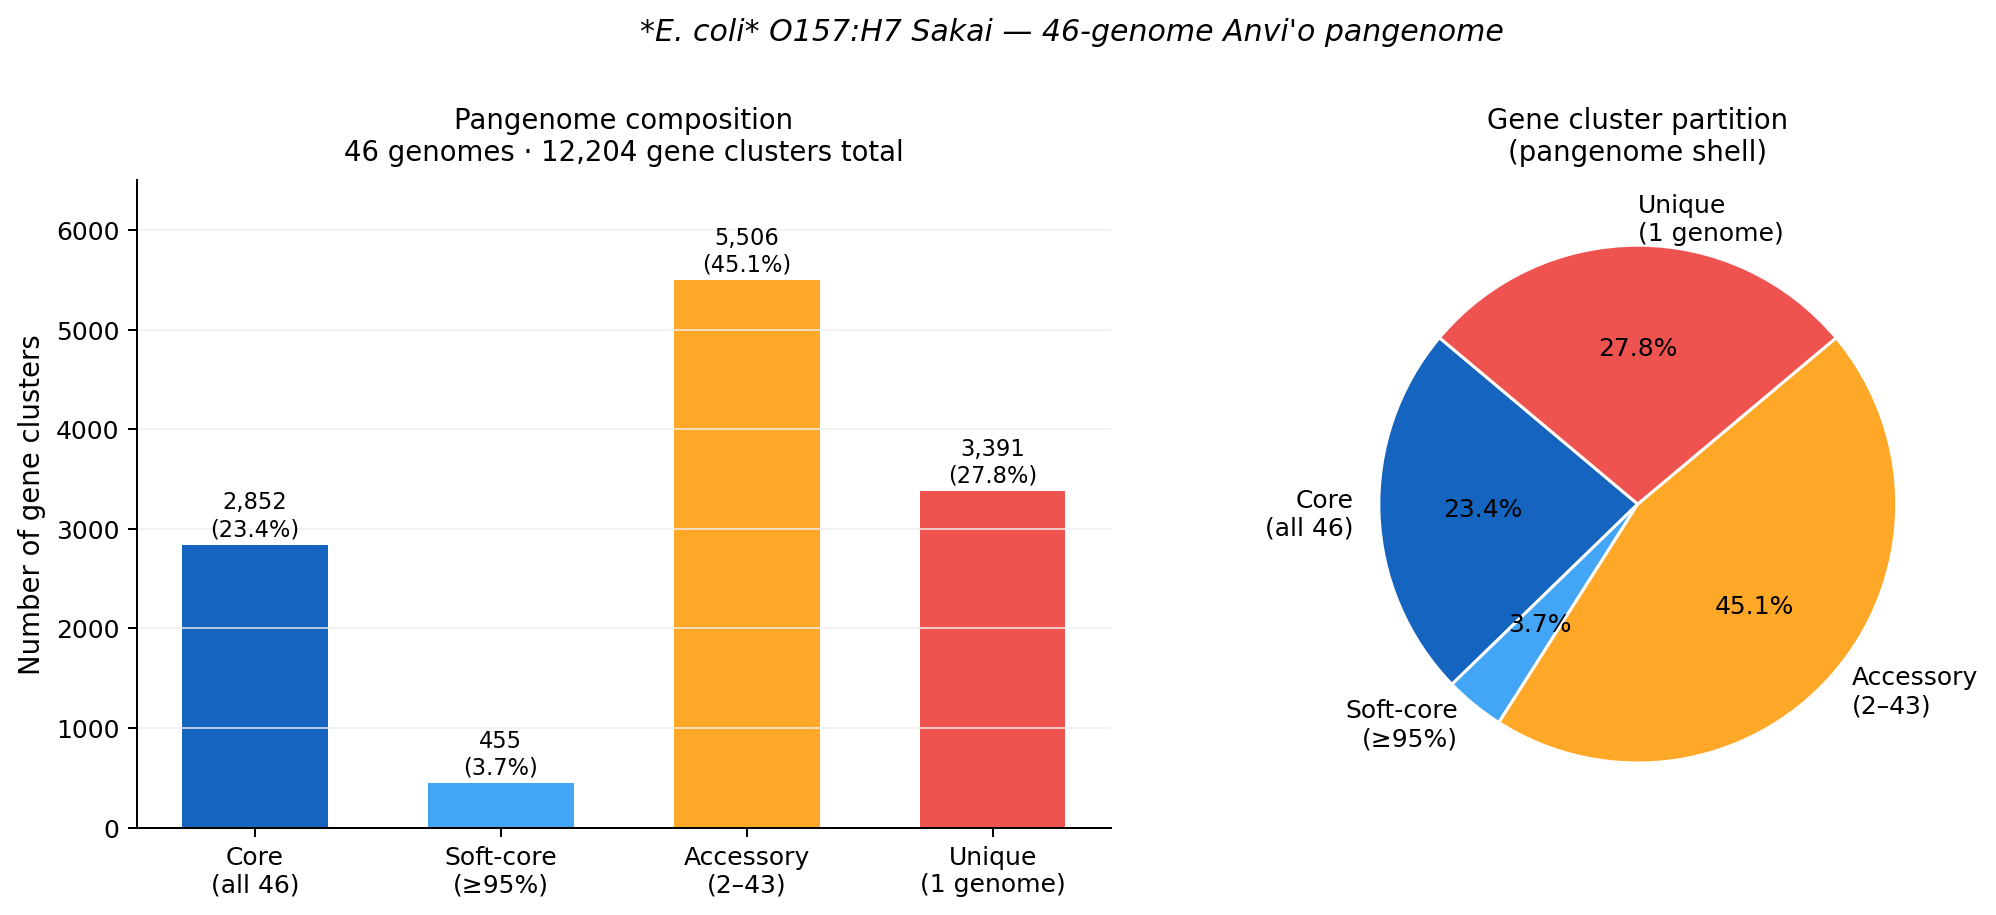
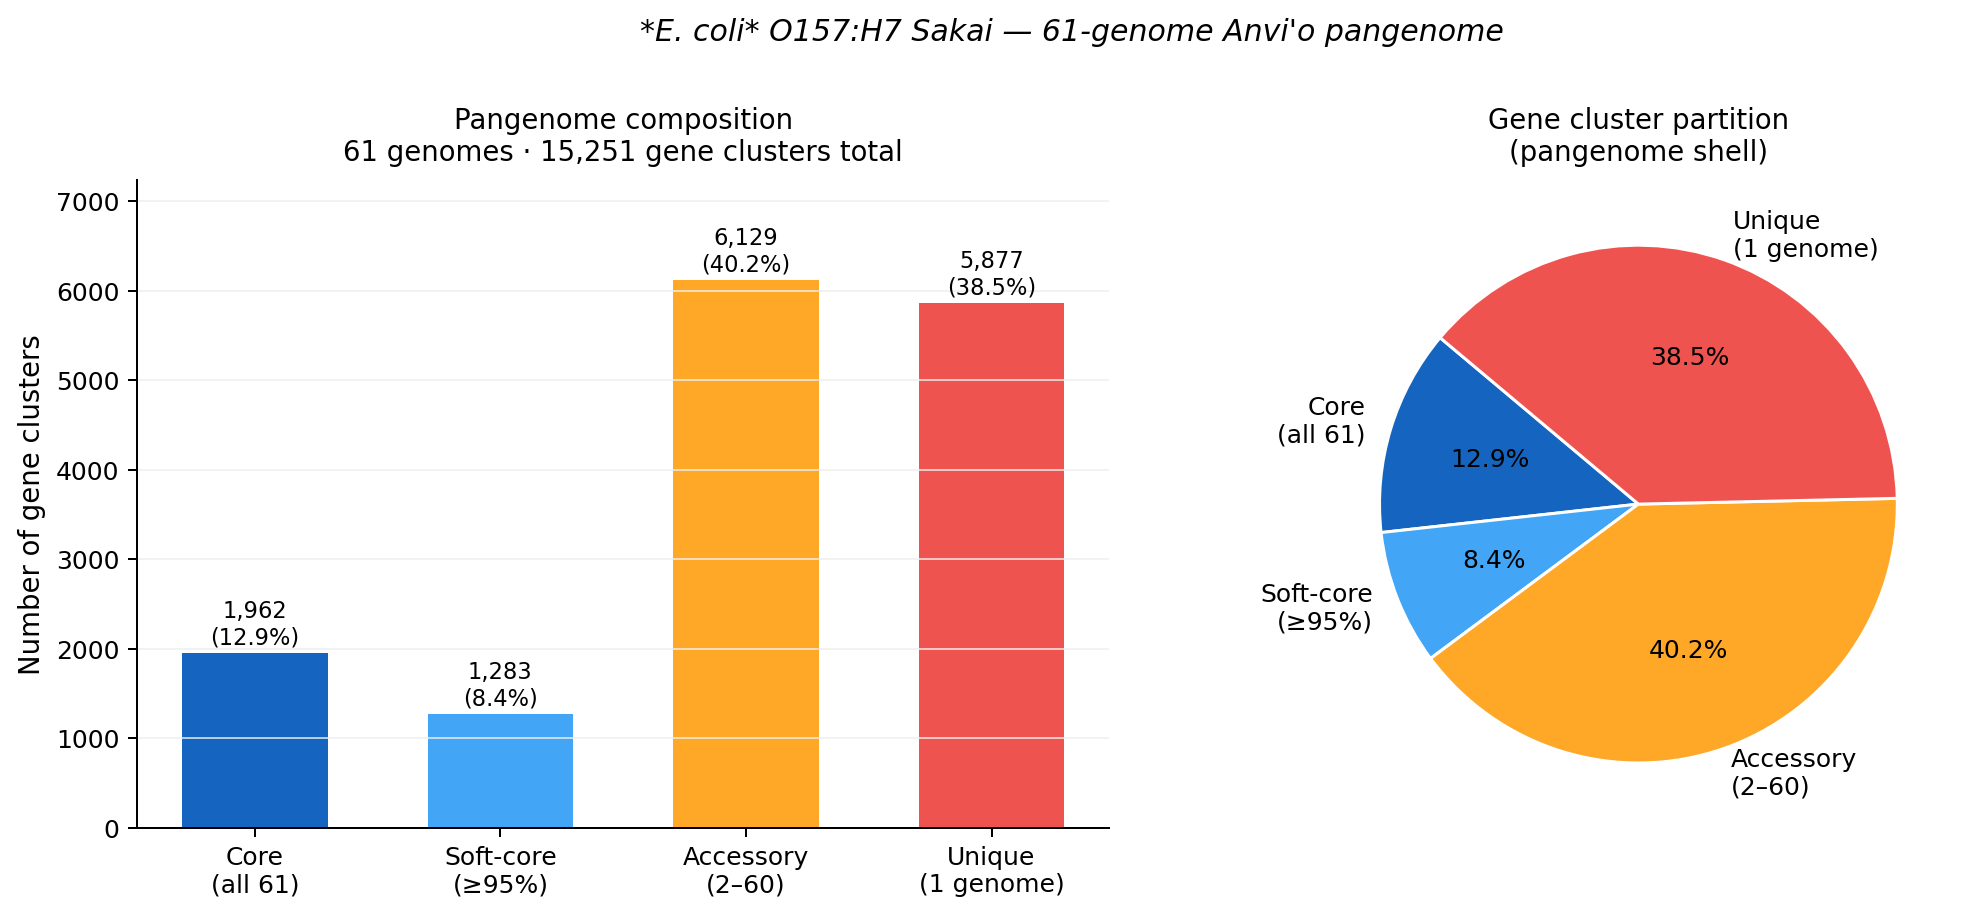
Update pangenome figures and fig script for 61-genome panel
- fig_pangenome.py: N_GENOMES 46→61, add APEC to pathogenic types,
  update all axis/title labels to reflect 61-genome panel
- Regenerated: pangenome_composition.png, pangenome_enrichment.png,
  pangenome_heatmap.png (15,251 clusters, 31 pathogenic / 30 commensal)

diff --git a/scripts/analysis/fig_pangenome.py b/scripts/analysis/fig_pangenome.py
@@ -31,7 +31,7 @@ PAN_DIR     = REPO_ROOT / "data" / "results" / "pangenome"
 VIZ_DIR     = REPO_ROOT / "data" / "results" / "figures"
 VIZ_DIR.mkdir(parents=True, exist_ok=True)
 
-N_GENOMES = 46
+N_GENOMES = 61
 
 
 # ── helpers ──────────────────────────────────────────────────────────────────
@@ -43,7 +43,7 @@ def load_genome_manifest() -> dict:
     manifest = manifest[manifest["label"].notna() & (manifest["label"] != "label")]
 
     # Binary classification: known pathogenic pathotypes vs non-pathogenic
-    pathogenic_types = {"EHEC", "EPEC", "ETEC", "UPEC", "NMEC", "EAEC", "AIEC"}
+    pathogenic_types = {"EHEC", "EPEC", "ETEC", "UPEC", "NMEC", "EAEC", "AIEC", "APEC"}
     result = {}
     for _, row in manifest.iterrows():
         label = str(row["label"]).strip()
@@ -67,17 +67,17 @@ def plot_pangenome_composition(gc: pd.DataFrame) -> None:
     # Partition into classic pangenome categories
     def category(n):
         if n == N_GENOMES:
-            return "Core\n(all 46)"
+            return "Core\n(all 61)"
         elif n >= int(0.95 * N_GENOMES):
             return "Soft-core\n(≥95%)"
         elif n >= 2:
-            return "Accessory\n(2–43)"
+            return "Accessory\n(2–60)"
         else:
             return "Unique\n(1 genome)"
 
     cluster_counts["category"] = cluster_counts["n_genomes"].apply(category)
-    cat_order = ["Core\n(all 46)", "Soft-core\n(≥95%)",
-                 "Accessory\n(2–43)", "Unique\n(1 genome)"]
+    cat_order = ["Core\n(all 61)", "Soft-core\n(≥95%)",
+                 "Accessory\n(2–60)", "Unique\n(1 genome)"]
     counts = cluster_counts["category"].value_counts().reindex(cat_order, fill_value=0)
 
     colours = ["#1565C0", "#42A5F5", "#FFA726", "#EF5350"]
@@ -93,7 +93,7 @@ def plot_pangenome_composition(gc: pd.DataFrame) -> None:
                 f"{val:,}\n({val/total*100:.1f}%)",
                 ha="center", va="bottom", fontsize=9)
     ax.set_ylabel("Number of gene clusters", fontsize=11)
-    ax.set_title(f"Pangenome composition\n46 genomes · {total:,} gene clusters total",
+    ax.set_title(f"Pangenome composition\n61 genomes · {total:,} gene clusters total",
                  fontsize=11, pad=8)
     ax.set_ylim(0, counts.max() * 1.18)
     ax.grid(axis="y", color="#eeeeee", linewidth=0.6)
@@ -107,7 +107,7 @@ def plot_pangenome_composition(gc: pd.DataFrame) -> None:
             wedgeprops=wedge_props, textprops={"fontsize": 10})
     ax2.set_title("Gene cluster partition\n(pangenome shell)", fontsize=11, pad=8)
 
-    plt.suptitle("*E. coli* O157:H7 Sakai — 46-genome Anvi'o pangenome",
+    plt.suptitle("*E. coli* O157:H7 Sakai — 61-genome Anvi'o pangenome",
                  fontsize=12, y=1.01, style="italic")
     plt.tight_layout()
     out = VIZ_DIR / "pangenome_composition.png"
@@ -155,7 +155,7 @@ def plot_enrichment(enrich: pd.DataFrame) -> None:
     ax.set_xlabel("Presence difference (pathogenic fraction − commensal fraction)",
                   fontsize=10)
     ax.set_title("PATHOGEN-enriched COG14 functions (q < 0.05)\n"
-                 "Anvi'o functional enrichment · 46-genome pangenome",
+                 "Anvi'o functional enrichment · 61-genome pangenome",
                  fontsize=11, pad=8)
     ax.axvline(0, color="#aaaaaa", linewidth=0.8, linestyle="--")
     ax.grid(axis="x", color="#eeeeee", linewidth=0.6)
